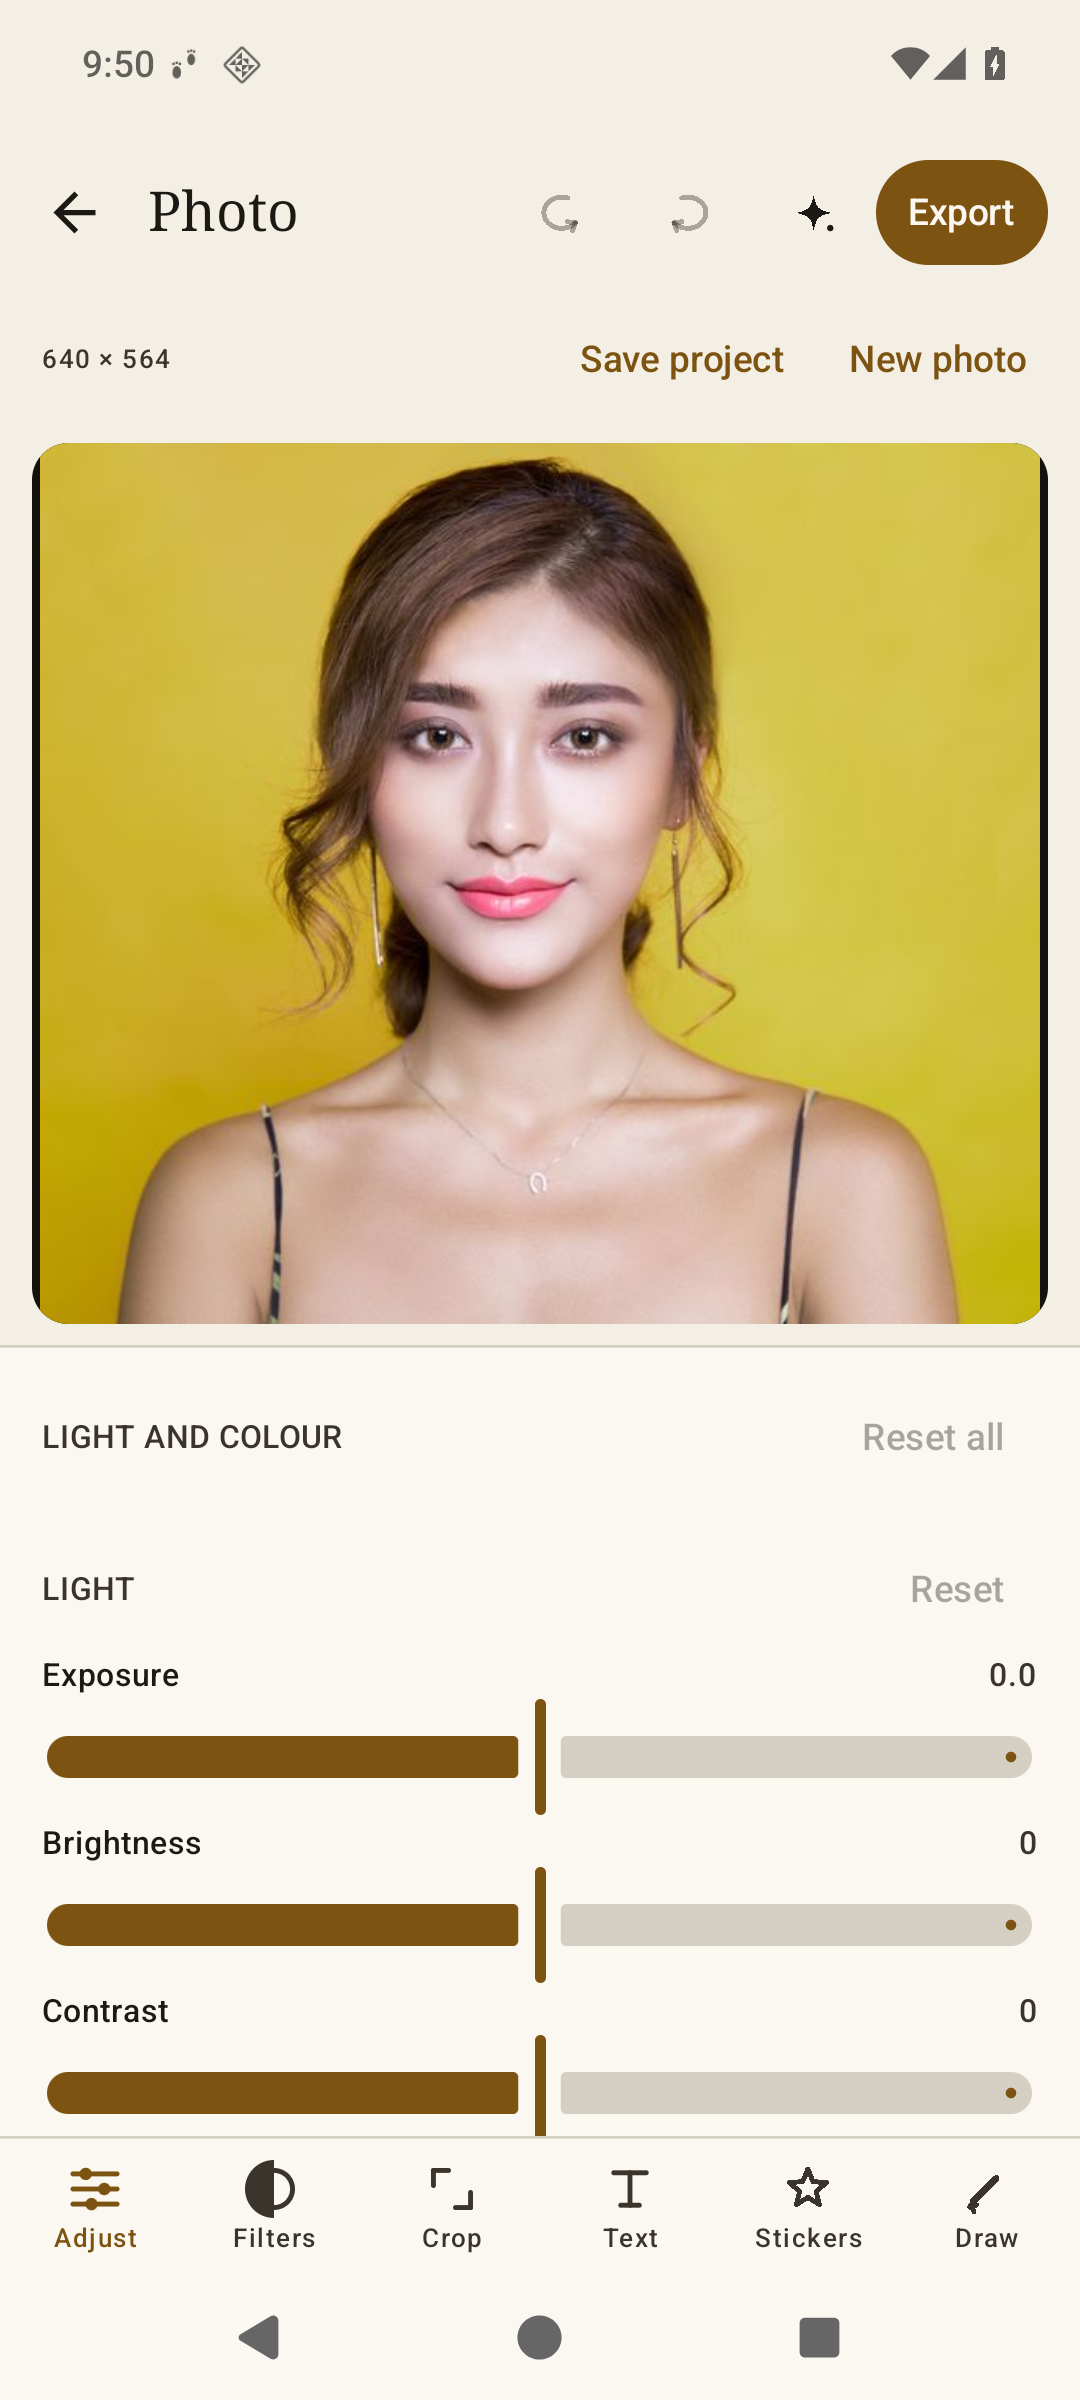
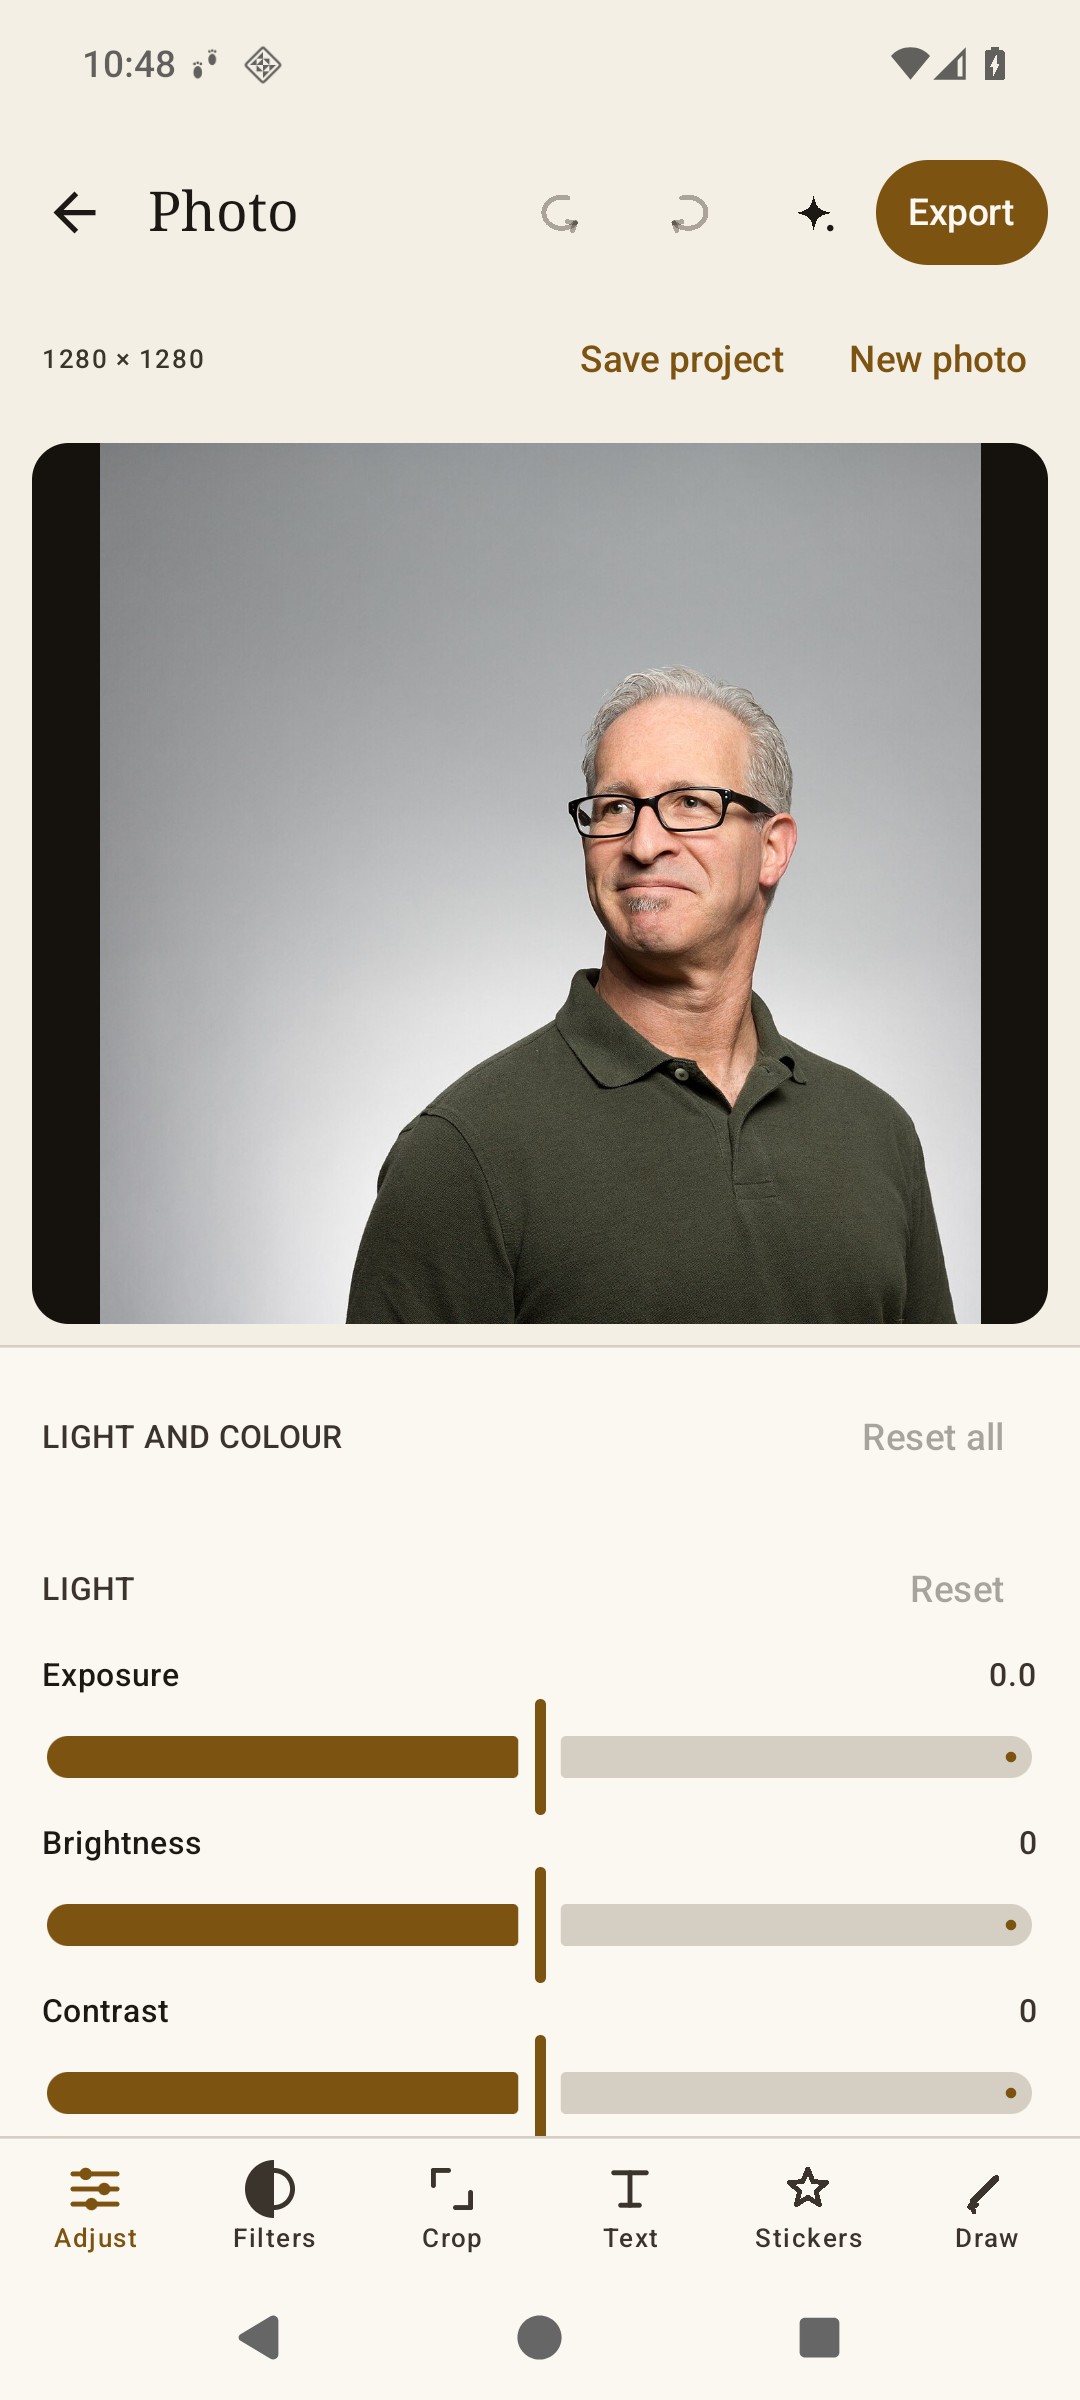
docs(store): use a CC0 male test portrait for the photo and cut-out screenshots
Replace the previous unverified test portrait in 05-photo-adjust.png and 06-ai-cutout.png with a CC0 1.0 public-domain photograph (Wikimedia Commons / Unsplash, cropped), document its licence, source and new hashes in the capture README, and update the landing page and README disclosures. The person shown is not affiliated with or endorsing the app.

diff --git a/docs/index.html b/docs/index.html
@@ -253,7 +253,7 @@
         <figcaption><b>Canvas editor</b>A template open, Export in reach.</figcaption>
       </figure>
       <figure class="shot">
-        <img src="store/screenshots-v023/05-photo-adjust.png" alt="Photo editor: a portrait on a yellow background with the Light and Colour panel open, showing Exposure, Brightness and Contrast sliders above Adjust, Filters, Crop, Text, Stickers and Draw." width="1080" height="2400" loading="lazy" decoding="async">
+        <img src="store/screenshots-v023/05-photo-adjust.png" alt="Photo editor: a portrait in a green polo shirt on a plain grey studio background, with the Light and Colour panel open, showing Exposure, Brightness and Contrast sliders above Adjust, Filters, Crop, Text, Stickers and Draw." width="1080" height="2400" loading="lazy" decoding="async">
         <figcaption><b>Photo studio</b>Light and colour sliders over a photo.</figcaption>
       </figure>
       <figure class="shot">
@@ -266,7 +266,7 @@
       </figure>
     </div>
     <div class="wrap">
-      <p class="note">Screens captured on an API 36 emulator from the v0.2.3 release build (English locale); small details may differ on your device, and no real-device QA has been completed yet. The portrait in the photo and cut-out screens is a third-party demonstration image used only during testing; it is not part of the app.</p>
+      <p class="note">Screens captured on an API 36 emulator from the v0.2.3 release build (English locale); small details may differ on your device, and no real-device QA has been completed yet. The portrait in the photo and cut-out screens is a CC0 public-domain test photograph (cropped, via Wikimedia Commons) used only for these demonstrations; it is not part of the app, and the person shown is not affiliated with or endorsing it.</p>
     </div>
   </section>
 

diff --git a/docs/store/screenshots-v023/README.md b/docs/store/screenshots-v023/README.md
@@ -11,8 +11,8 @@ navigation, so the status bar and the navigation bar are part of every frame.
[8 lines of base64/hex data omitted]
 
 Reproduce: install the release APK on an API 36 emulator, then
@@ -23,9 +23,14 @@ and pull it). The captures include the emulator status and navigation bars.
 
 - These are emulator captures, like the rest of the acceptance evidence in
   [docs/qa/BUILD_REPORT.md](../../qa/BUILD_REPORT.md). No real-device QA has been completed.
-- The portrait used to demonstrate import, editing and background removal is a **third-party
-  demonstration image used only during testing**. It is not bundled with the app, is not covered
-  by the project licence, and is not redistributed as an asset of Midad Studio; it appears only
-  inside these illustrative screenshots.
+- The portrait used to demonstrate import, editing and background removal is a **CC0 1.0
+  public-domain test photograph**, cropped from its 1920 × 1280 original to a 1280 × 1280 square.
+  Source: Wikimedia Commons file
+  [Gray-haired man portrait (Unsplash).jpg](https://commons.wikimedia.org/wiki/File%3AGray-haired_man_portrait_%28Unsplash%29.jpg)
+  — an Unsplash upload (Foto Sushi, 2016) imported under CC0; no attribution is required, and the
+  person shown is not affiliated with or endorsing Midad Studio. It is not bundled with the app, is
+  not covered by the project licence, and is not redistributed as an asset of Midad Studio; it
+  appears only inside these illustrative screenshots. The two frames were re-captured on
+  2026-11-23 with this photograph, replacing an earlier test portrait of unverified origin.
 - The earlier Arabic set in [../screenshots/](../screenshots/) was captured from the 0.2.0
   pre-release build and is documented there with its own provenance and hashes.

diff --git a/README.md b/README.md
@@ -89,7 +89,7 @@ background, and no model ever leaves the device. Details:
 | <img src="docs/store/screenshots-v023/01-home.png" width="200" alt="Midad Studio home screen: the Midad Studio wordmark, the promise 'Make something worth keeping', the four studio cards (Photo, Video, Design, AI Lab), the Projects entry and the recent-exports row."> | <img src="docs/store/screenshots-v023/02-design-start.png" width="200" alt="Design studio start screen: 'Start on paper' with square-post, story and landscape canvas presets, ways to start from a template or a collage, and the template shelf."> | <img src="docs/store/screenshots-v023/03-template-gallery.png" width="200" alt="Template gallery: the seven original layered layouts, showing the Manifesto, Sale card, Event poster and Recipe card with their canvas sizes."> | <img src="docs/store/screenshots-v023/04-template-editor.png" width="200" alt="Canvas editor: the Manifesto template open with layer handles, undo and redo, Export, and the Text, Image, Shape, Background, Layers and Project tools."> |
 | <img src="docs/store/screenshots-v023/05-photo-adjust.png" width="200" alt="Photo editor: a portrait open with the Light and Colour panel — exposure, brightness and contrast sliders — and the Adjust, Filters, Crop, Text, Stickers and Draw tools."> | <img src="docs/store/screenshots-v023/06-ai-cutout.png" width="200" alt="Background removal: a transparent cut-out on the checkerboard backdrop, the two fast cut-out models, backdrop choices (Transparent, Blur, Paper, Ink, White) and Save."> | <img src="docs/store/screenshots-v023/07-ai-lab.png" width="200" alt="AI Lab: background removal and model manager entries, a Runs on this device badge, and the six models with two installed and four available to download."> | |
 
-*Screens captured from the signed v0.2.3 release build on an API 36 emulator (English UI, light theme). The portrait in the photo-editor and cut-out frames is a third-party demonstration image used for testing; it is not bundled with the app and is not covered by the project licence. An Arabic-UI set from the 0.2.0 pre-release is in [docs/store/screenshots/](docs/store/screenshots/); provenance and hashes for both sets are in the [store guide](docs/store/README.md) and [screenshots-v023/README.md](docs/store/screenshots-v023/README.md).*
+*Screens captured from the signed v0.2.3 release build on an API 36 emulator (English UI, light theme). The portrait in the photo-editor and cut-out frames is a CC0 public-domain test photograph (cropped, via Wikimedia Commons); it is used only for these demonstrations, is not bundled with the app, is not covered by the project licence, and the person shown is not affiliated with or endorsing Midad Studio. An Arabic-UI set from the 0.2.0 pre-release is in [docs/store/screenshots/](docs/store/screenshots/); provenance and hashes for both sets are in the [store guide](docs/store/README.md) and [screenshots-v023/README.md](docs/store/screenshots-v023/README.md).*
 
 ## Download and install
 

diff --git a/docs/store/README.md b/docs/store/README.md
@@ -106,7 +106,7 @@ submitted to any store.
 | Font scale | 100 % |
 | Frame | no device frame, no burned-in marketing text, no dialogs from other apps; status bar shows time and system icons only |
 | Method | `adb exec-out screencap -p`, then converted to 24-bit PNG (alpha removed) |
-| Demo media | Midad's own exports (the seven template renders), generated gradient stills (a 1200 x 1200 set and one 1600 x 1000 landscape still), and three 3-second gradient clips made locally. No third-party photo, stock image or person appears in any frame |
+| Demo media | Midad's own exports (the seven template renders), generated gradient stills (a 1200 x 1200 set and one 1600 x 1000 landscape still), and three 3-second gradient clips made locally. No third-party photo, stock image or person appears in any frame of this 0.2.0 set (the v0.2.3 set is documented separately) |
 
 ```powershell
 $adb = 'C:\Android\Sdk\platform-tools\adb.exe'
@@ -136,5 +136,7 @@ repository [LICENSE](../../LICENSE); third-party libraries and AI models keep th
 (see [docs/product/MODEL_LICENSES.md](../product/MODEL_LICENSES.md) and
 [docs/product/licenses/](../product/licenses/)).
 
-The demo media are the app's own exports and generated images; no third-party photograph, artwork
-or person appears in this folder.
+The demo media in `screenshots/` are the app's own exports and generated images; no third-party
+photograph, artwork or person appears in that 0.2.0 set. The v0.2.3 set in `screenshots-v023/`
+includes one CC0 public-domain test photograph, documented with its licence, source, crop and
+hashes in [screenshots-v023/README.md](screenshots-v023/README.md).
